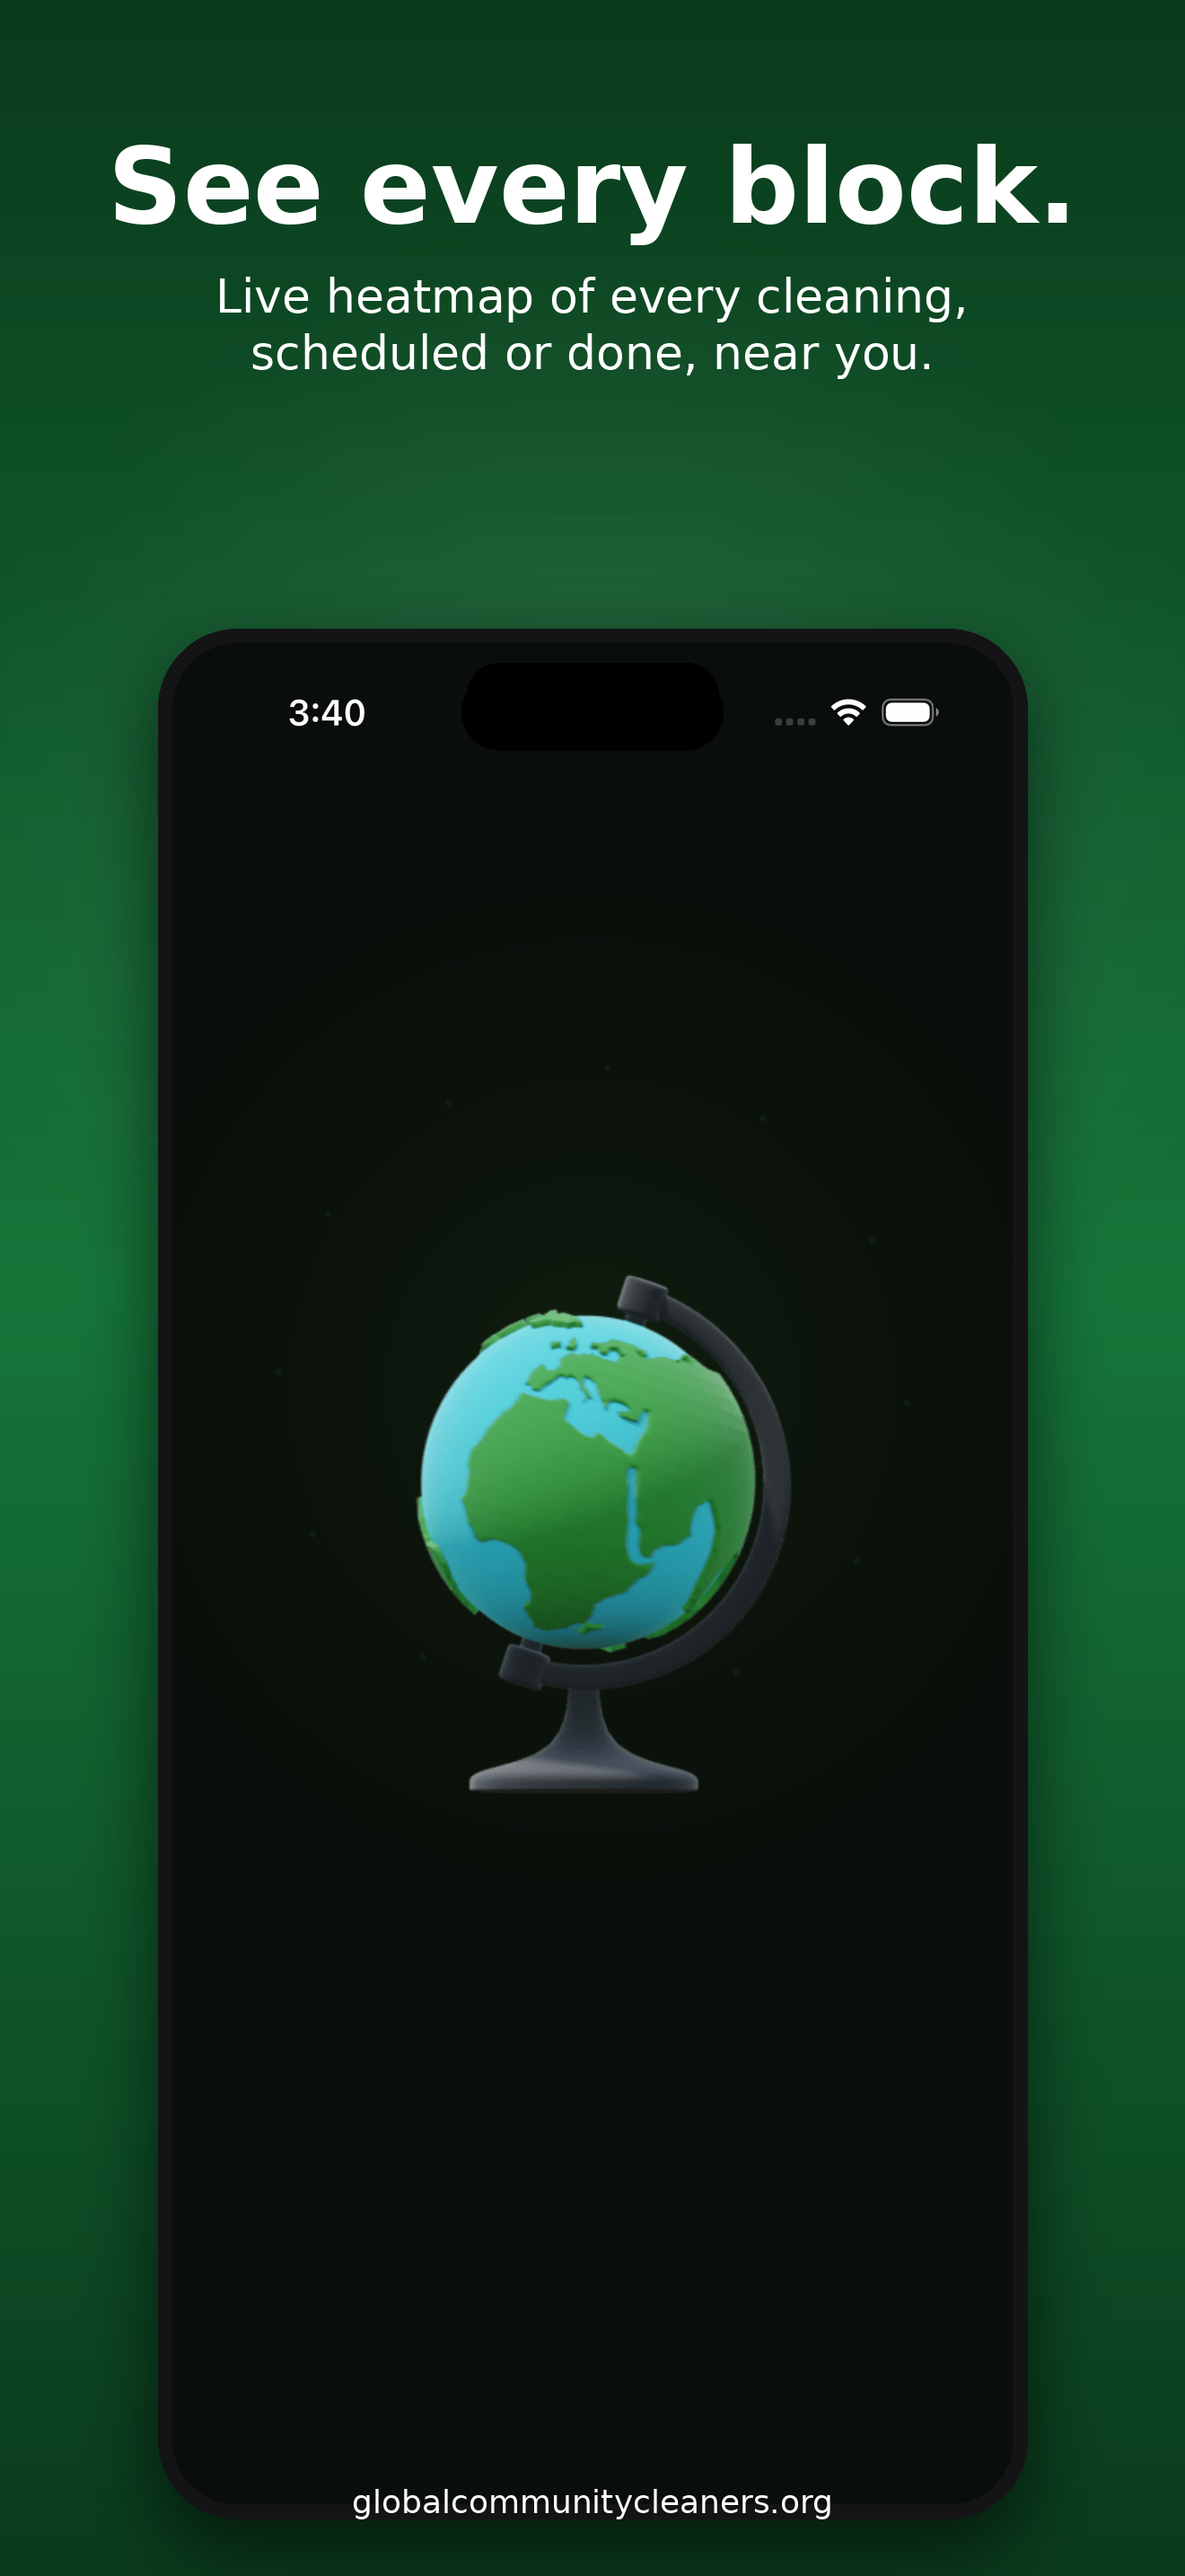
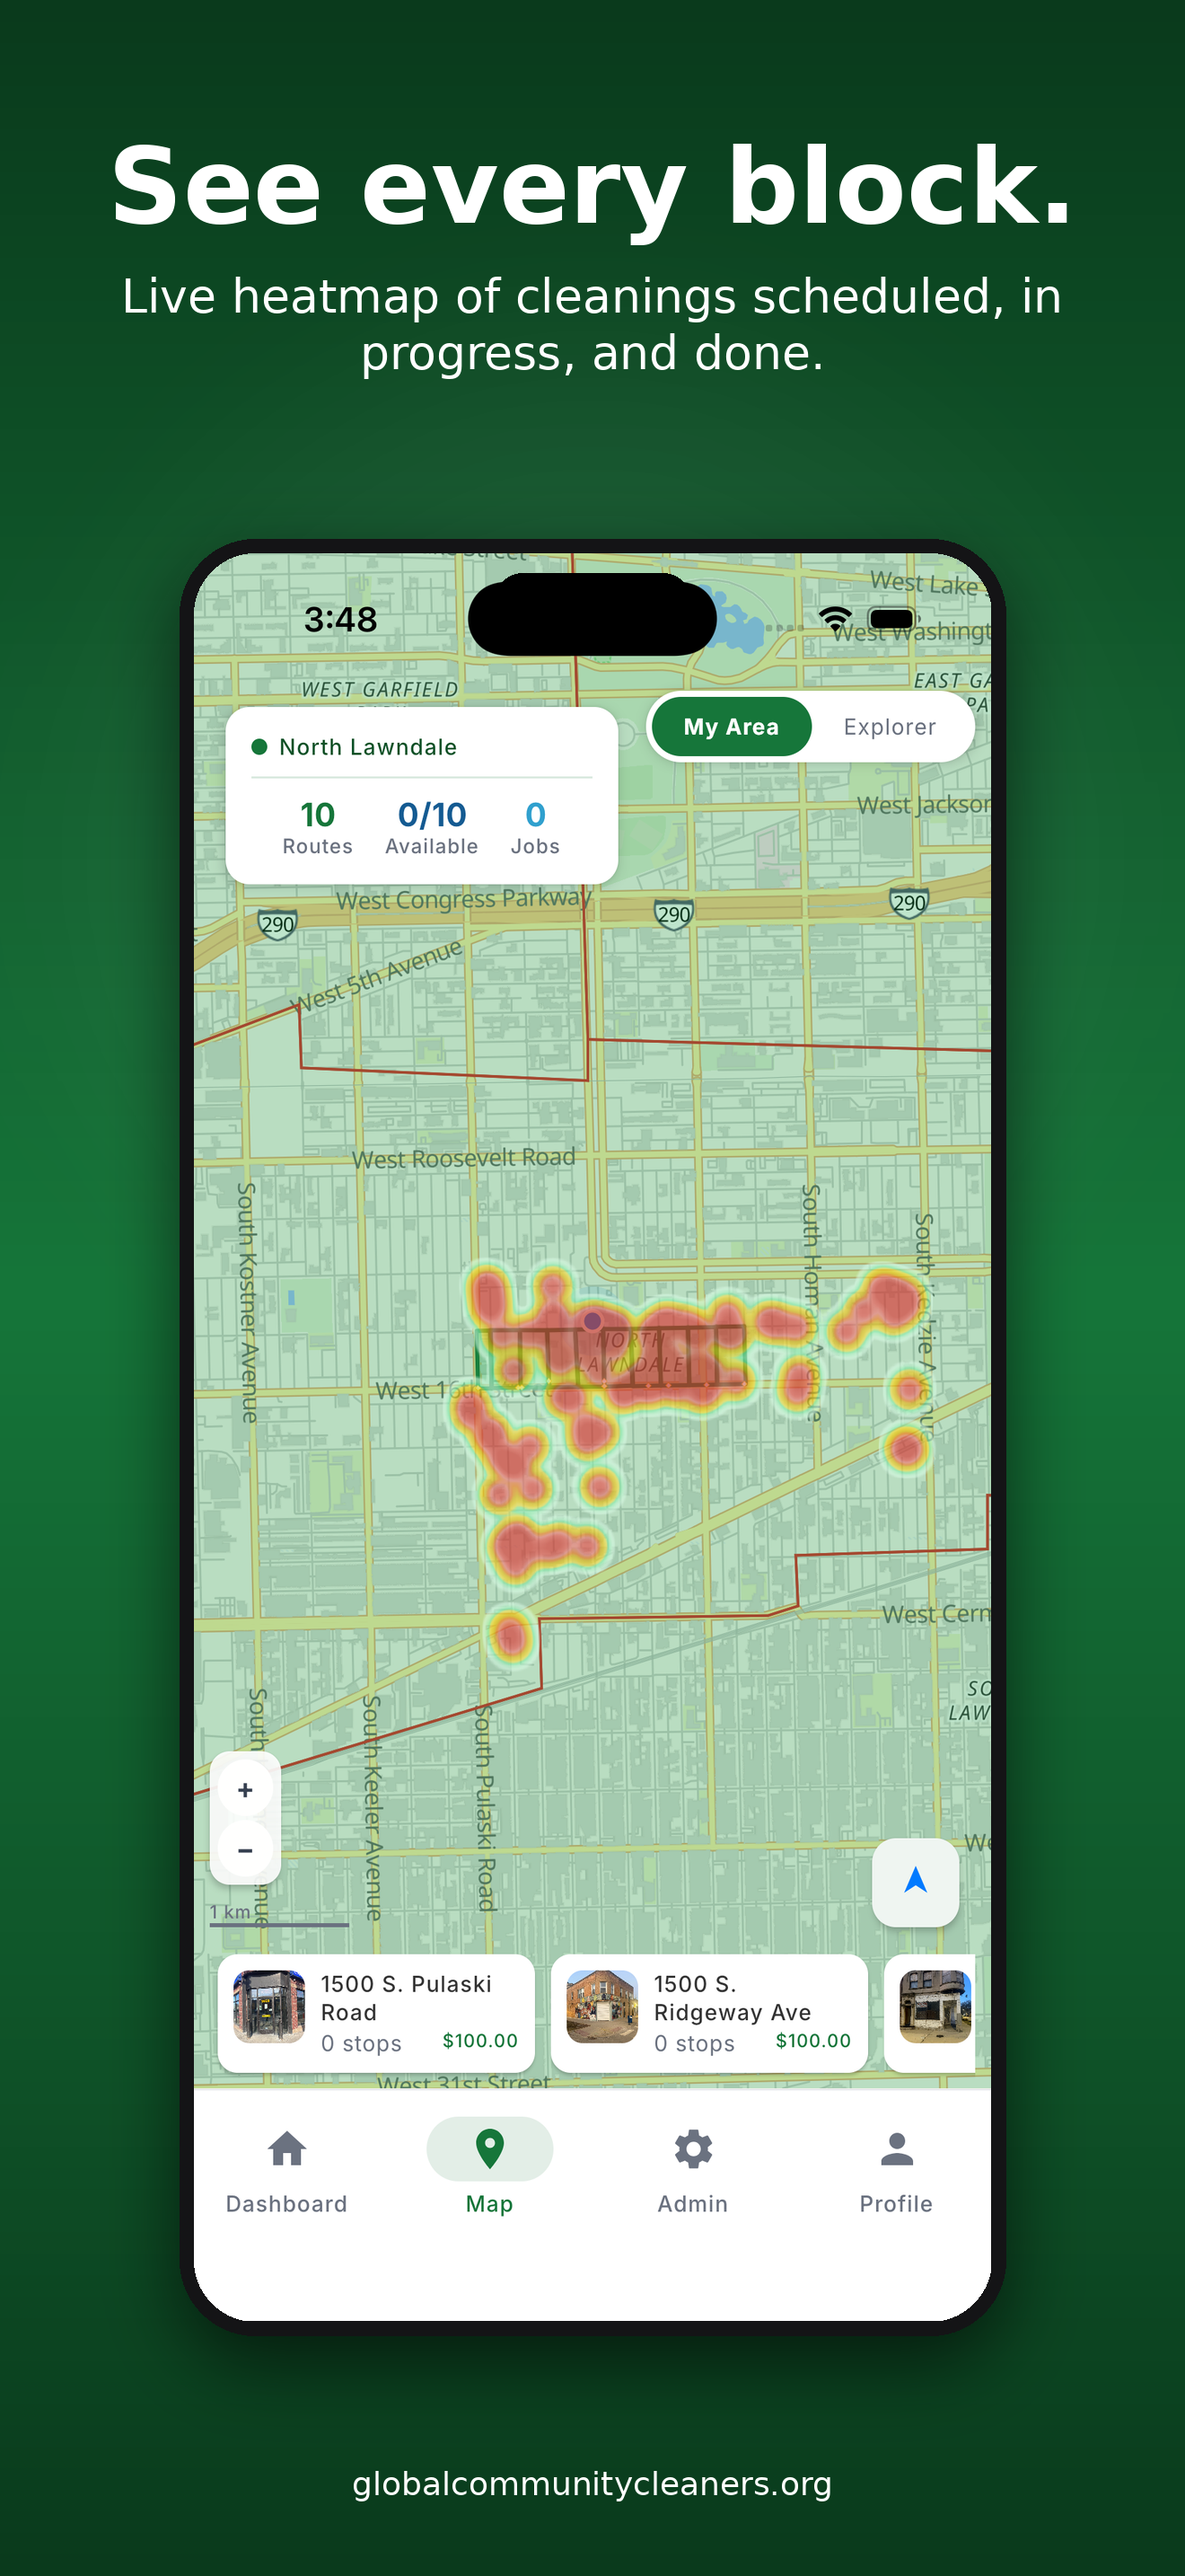
feat(appstore): refreshed 5-frame batch with dedupe-fixed heatmap
App Store screenshot pipeline tightened:
- Device top raised 700 -> 600px so the bezel clears the footer URL
- Footer dropped 70 -> 90px from bottom for breathing room
- Dynamic Island narrowed 280 -> 220px (closer to real 16-Pro pill)
- Bezel width trimmed 968 -> 920px

Source screenshot for the heatmap frame swapped to 12-tap-map.png —
captured AFTER the route-polygon-fill suppression landed (commits
3fad5c3 + a6f63ad), so the map shows: green clean-zone wash baseline,
amber spot-report density heatmap, North Lawndale community boundary,
no duplicate green block-rectangles.

5 frames produced at 1320x2868:
  01-heatmap  - "See every block." live density heatmap
  02-profile  - "Track your earnings." worker dashboard
  03-routes   - "Pick your block." (same heatmap, claim CTA)
  04-onboarding - "$100 per block." sign-in / value prop
  05-launch   - "Built for North Lawndale." expansion CTA

diff --git a/scripts/make-appstore-screenshot.py b/scripts/make-appstore-screenshot.py
@@ -48,20 +48,20 @@ HEADLINE_LINE_GAP = 14
 
 # Device frame metrics — sized so a 1206×2622 sim screenshot maps 1:1
 # with comfortable bezel margins on a 1320-wide canvas.
-DEVICE_TOP = 700
-DEVICE_W = 968                      # outer bezel width
-DEVICE_H = int(DEVICE_W * (2622 / 1206))  # preserve sim aspect (~2104)
+DEVICE_TOP = 600                    # raised so device clears the footer
+DEVICE_W = 920                      # outer bezel width — slightly trimmed for breathing room
+DEVICE_H = int(DEVICE_W * (2622 / 1206))  # preserve sim aspect (~2000)
 BEZEL_PX = 16                       # bezel thickness on each side
-BEZEL_RADIUS = 88                   # outer corner radius
+BEZEL_RADIUS = 84                   # outer corner radius
 SCREEN_RADIUS = BEZEL_RADIUS - BEZEL_PX
-ISLAND_W = 280
-ISLAND_H = 70
+ISLAND_W = 220                      # tightened — closer to real 16-Pro pill
+ISLAND_H = 64
 ISLAND_TOP_OFFSET = 22
 
 # Footer wordmark
 FOOTER_TEXT = "globalcommunitycleaners.org"
 FOOTER_SIZE = 36
-FOOTER_BOTTOM = 70
+FOOTER_BOTTOM = 90                  # nudged down so device shadow doesn't kiss it
 
 # ── Fonts ─────────────────────────────────────────────────────────────────
 FONT_BOLD_CANDIDATES = [
@@ -271,31 +271,31 @@ OUT_DIR = REPO / "screenshots" / "appstore-framed"
 
 CONFIGS = [
     {
-        "src": "07-fixed-map.png",
+        "src": "12-tap-map.png",
         "out": "01-heatmap.png",
         "headline": "See every block.",
-        "subcopy": "Live heatmap of every cleaning, scheduled or done, near you.",
+        "subcopy": "Live heatmap of cleanings scheduled, in progress, and done.",
     },
     {
-        "src": "05-post-login.png",
-        "out": "02-routes.png",
+        "src": "10-map-fixed.png",
+        "out": "02-profile.png",
+        "headline": "Track your earnings.",
+        "subcopy": "Same-day Stripe payout. Streaks. Badges. Real money for real work.",
+    },
+    {
+        "src": "12-tap-map.png",
+        "out": "03-routes.png",
         "headline": "Pick your block.",
-        "subcopy": "Tap a route. Claim the job. Get paid the same day.",
+        "subcopy": "Tap a route, claim the job, log your work, get paid.",
     },
     {
         "src": "04-further.png",
-        "out": "03-onboarding.png",
+        "out": "04-onboarding.png",
         "headline": "$100 per block.",
         "subcopy": "100% pays a neighbor to clean their own street.",
     },
     {
-        "src": "06-location-set.png",
-        "out": "04-impact.png",
-        "headline": "Every cleaning, photographed.",
-        "subcopy": "Sponsors see exactly what their dollars paid for.",
-    },
-    {
-        "src": "07-fixed-map.png",
+        "src": "12-tap-map.png",
         "out": "05-launch.png",
         "headline": "Built for North Lawndale.",
         "subcopy": "Expanding neighborhood by neighborhood — bring it to yours.",
